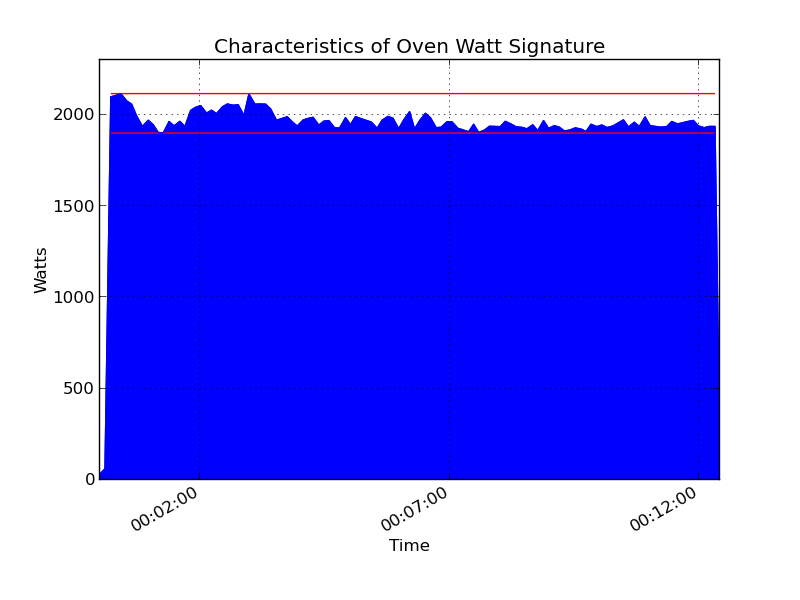
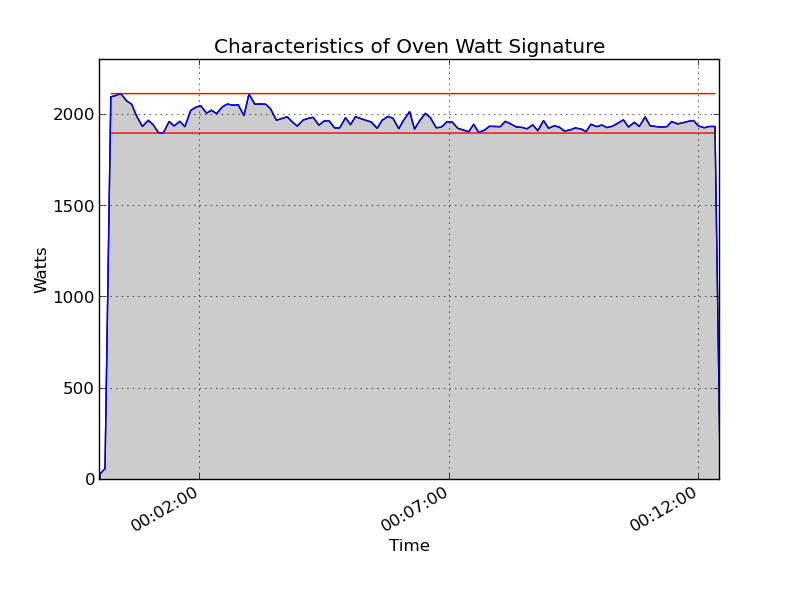
better color to analysis plot function for appliances

diff --git a/plt_cc.py b/plt_cc.py
@@ -114,7 +114,7 @@ def getAnalysisTimeWattFigure(readings,name):
     axs.hlines(minApp,readings[pdng][0],readings[-pdng][0],color='r')
 
     xs = getTimes(readings)
-    axs.fill_between(xs,appWatts,color='b')
+    axs.fill_between(xs,appWatts,facecolor='0.8')
 
     axs.set_ylim(0,2300)
     return fig
